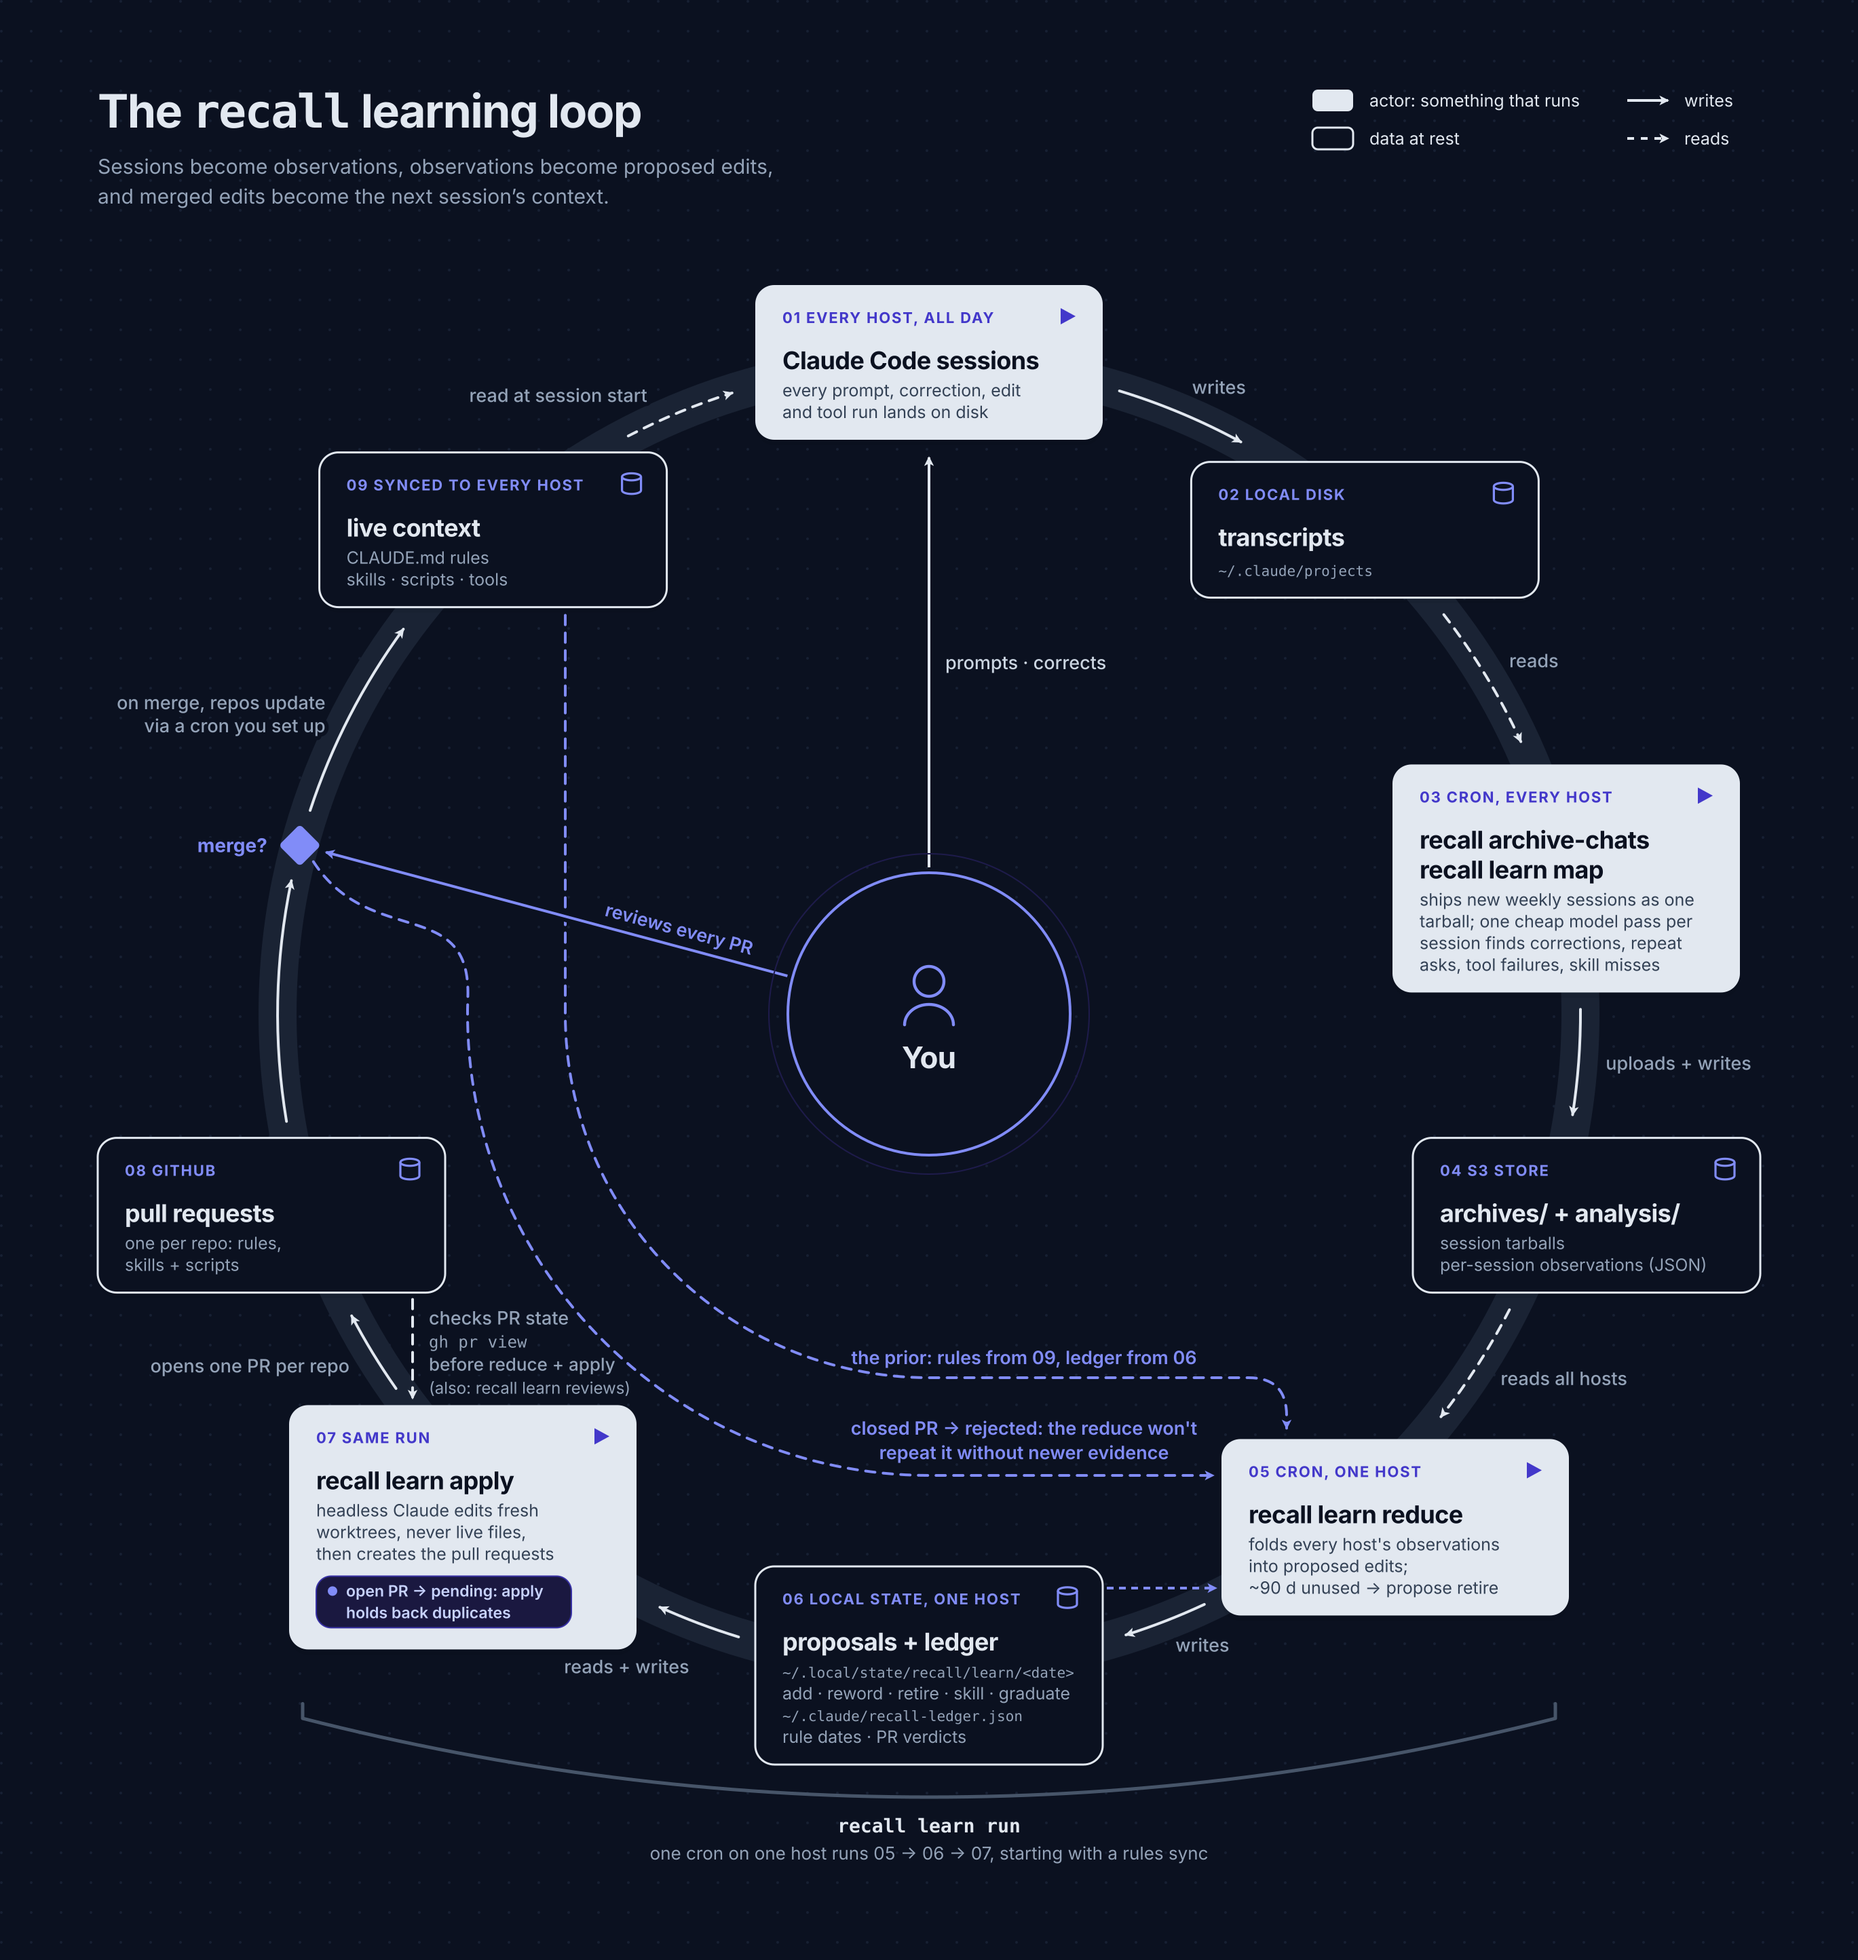
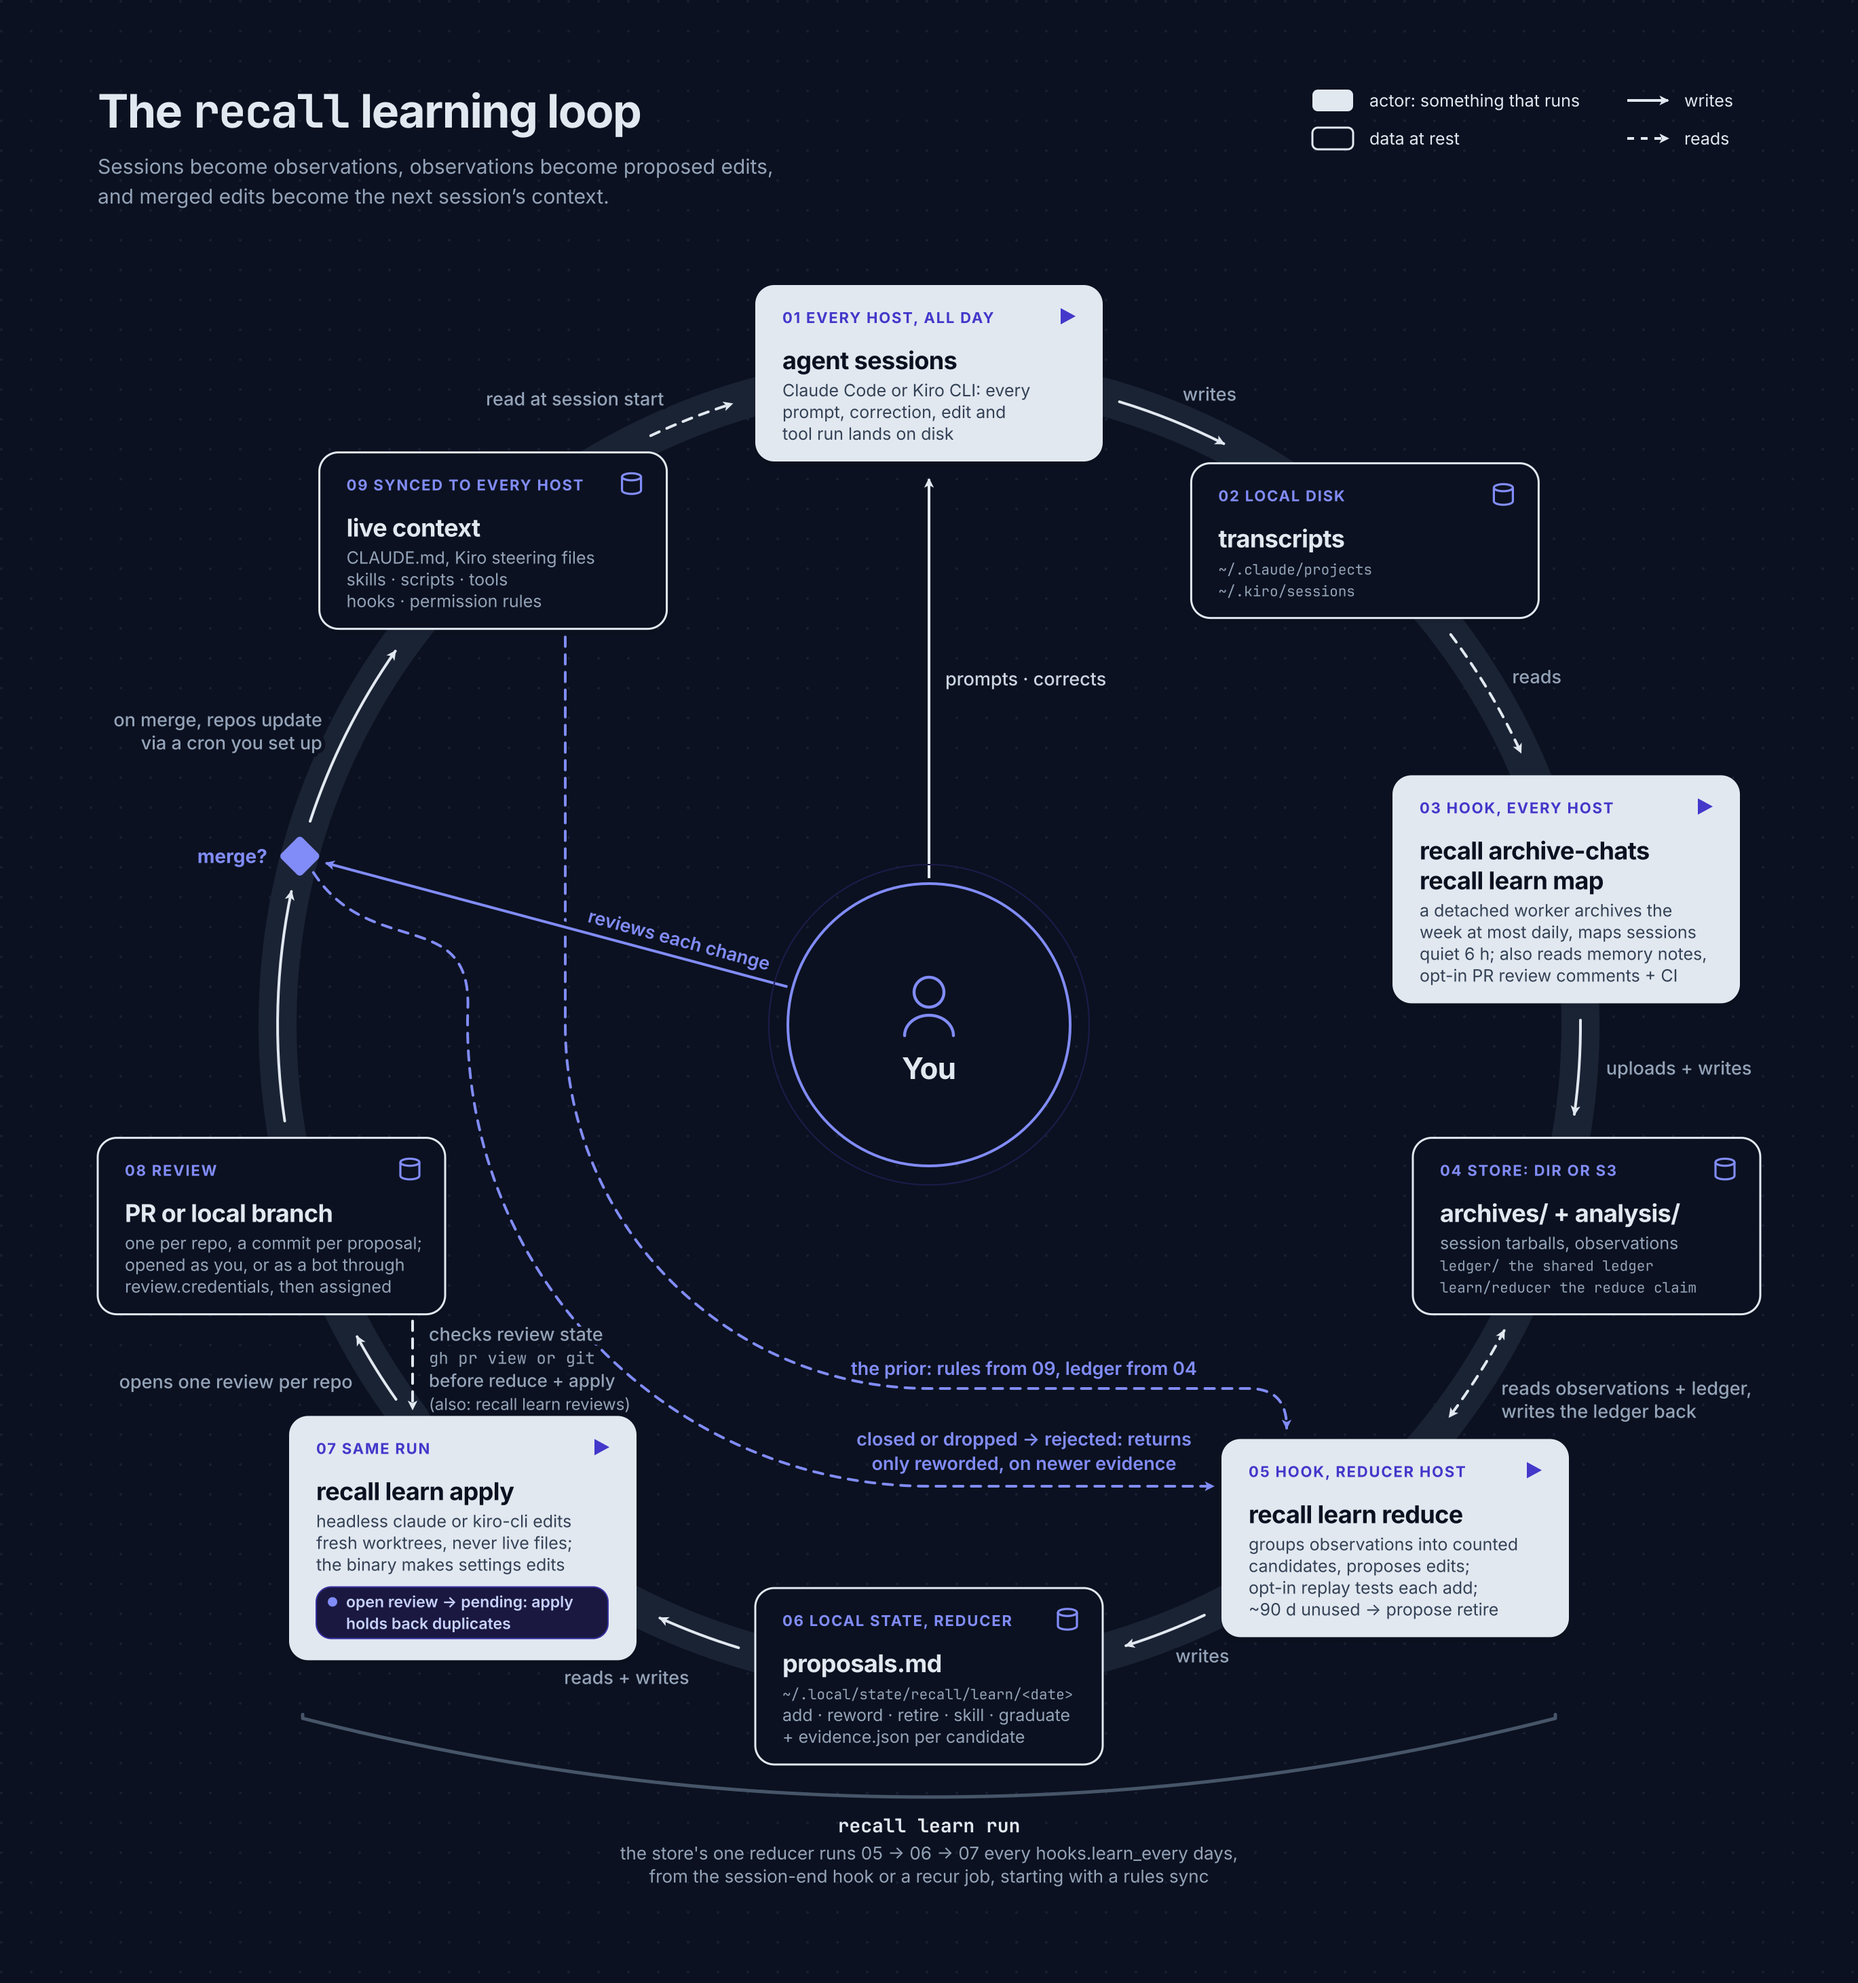
Redraw the learning-loop diagram for the session-end hook and Kiro
The diagram still showed the Claude-only, cron-driven loop.
It now shows the session-end hook, the dir-or-S3 store with its shared ledger and reducer claim, Kiro transcripts and steering files, review by pull request or local branch, and the optional bot credential.

Claude-Session: https://claude.ai/code/session_01ERuKHtJRqSrgErj5KeG3vj

diff --git a/README.md b/README.md
@@ -15,7 +15,7 @@ Once a pattern shows up often enough, recall proposes candidate rules, skills, a
 
 <picture>
   <source media="(prefers-color-scheme: dark)" srcset="docs/img/recall-loop-dark@2x.png">
-  <img alt="The recall learning loop: sessions write transcripts to local disk; scheduled jobs on every host archive them and map them to observations in the store; one host reduces observations into proposals and applies them as pull requests; you review, and merged changes update the live context the next session reads." src="docs/img/recall-loop@2x.png">
+  <img alt="The recall learning loop: sessions write transcripts to local disk; a session-end hook on every host archives them and maps them to observations in the store; the store's one reducer reduces observations into proposals and applies them as pull requests or local branches; you review, and merged changes update the live context the next session reads." src="docs/img/recall-loop@2x.png">
 </picture>
 
 ## Tenets
